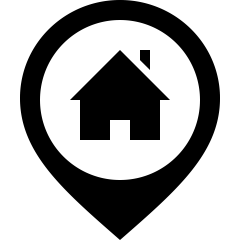
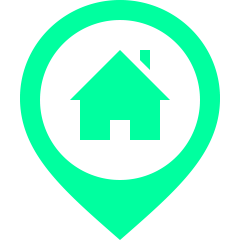
<fix>: modificações no css para acrescentar responsividade e modificar alguns estilos

diff --git a/modulo3/props-labedin/labedin/src/App.js b/modulo3/props-labedin/labedin/src/App.js
@@ -8,6 +8,7 @@ import tpLogo from './img/tp.jpg';
 import eqLogo from './img/equativ.jfif';
 import emailLogo from './img/email_icon.png';
 import addressLogo from './img/address_icon.png';
+import arrowIcon from './img/arrow.png'
 
 
 function App() {
@@ -22,14 +23,14 @@ function App() {
         />
         
         <ImagemButton 
-          imagem="https://cdn-icons-png.flaticon.com/512/271/271210.png" 
+          imagem={arrowIcon} 
           texto="Ver mais"
         />
       </div>
 
-      <CardPequeno imagem={emailLogo} item='Email:' conteudo='stephany@labenu.com.br' />
+      <CardPequeno className="page-section-container" imagem={emailLogo} item='Email:' conteudo='stephany@labenu.com.br' />
 
-      <CardPequeno imagem={addressLogo} item='Endereço:' conteudo='Rua Labenu, 1000' />
+      <CardPequeno className="page-section-container" imagem={addressLogo} item='Endereço:' conteudo='Rua Labenu, 1000' />
 
       <div className="page-section-container">
         <h2>Experiências profissionais</h2>

diff --git a/modulo3/props-labedin/labedin/src/components/CardGrande/CardGrande.css b/modulo3/props-labedin/labedin/src/components/CardGrande/CardGrande.css
@@ -1,24 +1,37 @@
 .bigcard-container {
     display: flex;
     align-items: center;
-    border: 1px solid black;
-    padding: 20px 10px;
-    margin-bottom: 10px;
-    height: 200px;
+    width: 96vw;
+    border: 1px solid #00ff9f;
+    margin: 1vh 0vw;
+    padding: 4vh 4vw;
 }
 
 .bigcard-container > img {
     width: 70px;
-    margin-right: 10px;
+    margin-right: 2vw;
     border-radius: 50%;
+    border: 1px solid #00ff9f;
 }
 
 .bigcard-container h4 {
-    margin-bottom: 15px;
+    margin-bottom: 2vh;
+    color: #00ff9f;
+}
+
+.bigcard-container p {
+    color: #00ff9f;
 }
 
 .bigcard-container > div {
     display: flex;
     flex-direction: column;
     justify-items: flex-start;
+}
+
+@media screen and (min-width: 1200px) {
+    .bigcard-container {
+        width: 50vw;
+        padding: 3vh 4vw;
+    }
 }

diff --git a/modulo3/props-labedin/labedin/src/components/CardPequeno/CardPequeno.css b/modulo3/props-labedin/labedin/src/components/CardPequeno/CardPequeno.css
@@ -3,21 +3,33 @@
     flex-direction: row;
     justify-content: flex-start;
     align-items: center;
-    border: 1px solid black;
-    width: 40vw;
+    border: 1px solid #00ff9f;
+    width: 96vw;
     height: 11vh;
-    margin: 1vh 0;
+    margin: 0.5vh 0;
 }
 
 .smallcard-container img {
-    width: 2vw;
-    margin: 0 1vw;
+    width: 5vw;
+    margin: 0 3vw;
 }
 
 .smallcard-container p {
     font-weight: 700;
+    color: #00ff9f;
 }
 
 .smallcard-container span {
     font-weight: 400;
+}
+
+@media screen and (min-width: 1200px) {
+    .smallcard-container {
+        width: 50vw;
+    }
+
+    .smallcard-container img {
+        width: 2vw;
+        margin: 0 1vw;
+    }
 }

diff --git a/modulo3/props-labedin/labedin/src/components/ImagemButton/ImagemButton.css b/modulo3/props-labedin/labedin/src/components/ImagemButton/ImagemButton.css
@@ -1,14 +1,24 @@
 .image-button-container {
     display: flex;
     align-items: center;
-    border: 1px solid black;
+    border: 1px solid #00ff9f;
     border-radius: 50px;
-    width: 200px;
+    width: 90vw;
     padding: 15px 30px;
-    margin: 10px auto;
+    margin: 1vh 0;
 }
 
 .image-button-container > img {
     width: 30px;
     margin-right: 10px;
+}
+
+.image-button-container p {
+    color: #00ff9f;
+}
+
+@media screen and (min-width: 1200px) {
+    .image-button-container {
+        width: 25vw;
+    }
 }

diff --git a/modulo3/props-labedin/labedin/src/App.css b/modulo3/props-labedin/labedin/src/App.css
@@ -2,6 +2,7 @@
   padding: 0;
   margin: 0;
   box-sizing: border-box;
+  background-color: black;
 }
 
 .App {
@@ -12,7 +13,10 @@
 }
 
 .page-section-container {
-  width: 40vw;
+  display: flex;
+  flex-direction: column;
+  align-items: center;
+  width: 100vw;
   margin: 10px 0;
 }
 
@@ -25,4 +29,5 @@ h2 {
   display: flex;
   justify-content: center;
   margin-bottom: 20px;
+  color: #00ff9f;
 }
